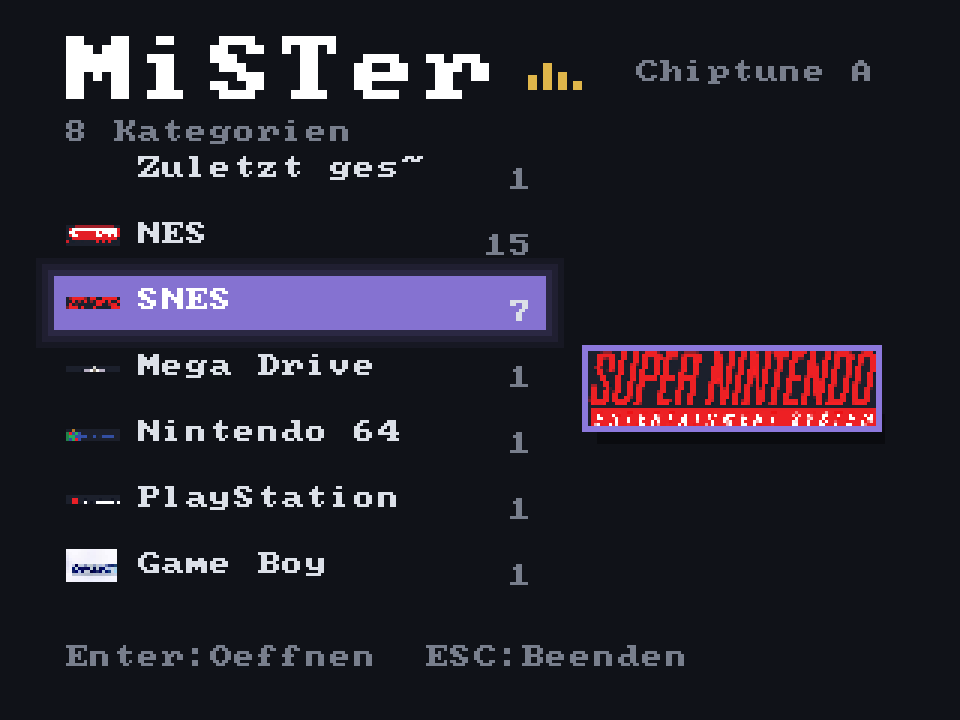
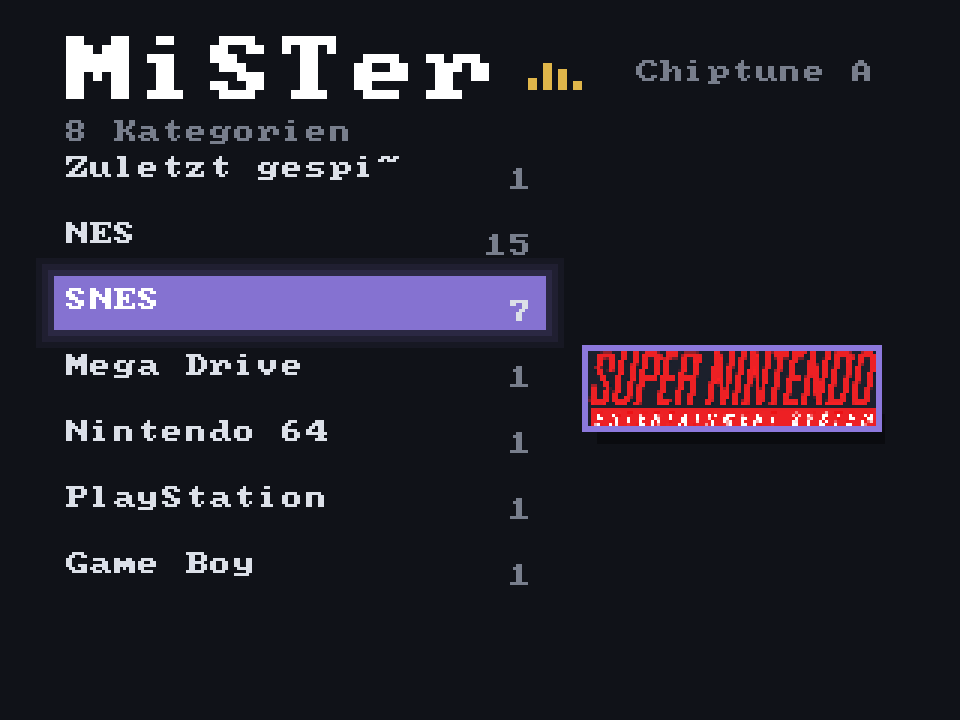
v1.47: Equalizer/Glow-Bewegung selbst beschleunigt statt nur Abtastrate

diff --git a/README.md b/README.md
@@ -13,11 +13,11 @@ gerendert (keine Fotomontage) - Boxart und Musiktitel im Beispiel sind
 Platzhalter, die Systemlogos in der linken Spalte sind echt.
 
 <p align="center">
-  <img src="screenshots/screenshot_1_kategorien.png" width="420" alt="Kategorien-Menue mit Mini-Icons und Now-Playing">
+  <img src="screenshots/screenshot_1_kategorien.png" width="420" alt="Kategorien-Menue mit Akzentfarbe, Glow und Now-Playing">
   &nbsp;&nbsp;
   <img src="screenshots/screenshot_2_spieleliste.png" width="420" alt="Spieleliste mit Boxart, Akzentfarbe und Glow-Effekt">
 </p>
-<p align="center"><sub>Links: Kategorien-Menue mit Mini-Icons, Akzentfarbe und Now-Playing-Anzeige &nbsp;|&nbsp; Rechts: Spieleliste mit Boxart, Glow-Effekt und Schlagschatten</sub></p>
+<p align="center"><sub>Links: Kategorien-Menue mit Akzentfarbe, pulsierender Markierung und Now-Playing-Anzeige &nbsp;|&nbsp; Rechts: Spieleliste mit Boxart, Glow-Effekt und Schlagschatten (Now-Playing in der Fusszeile)</sub></p>
 
 ## Inhaltsverzeichnis
 
